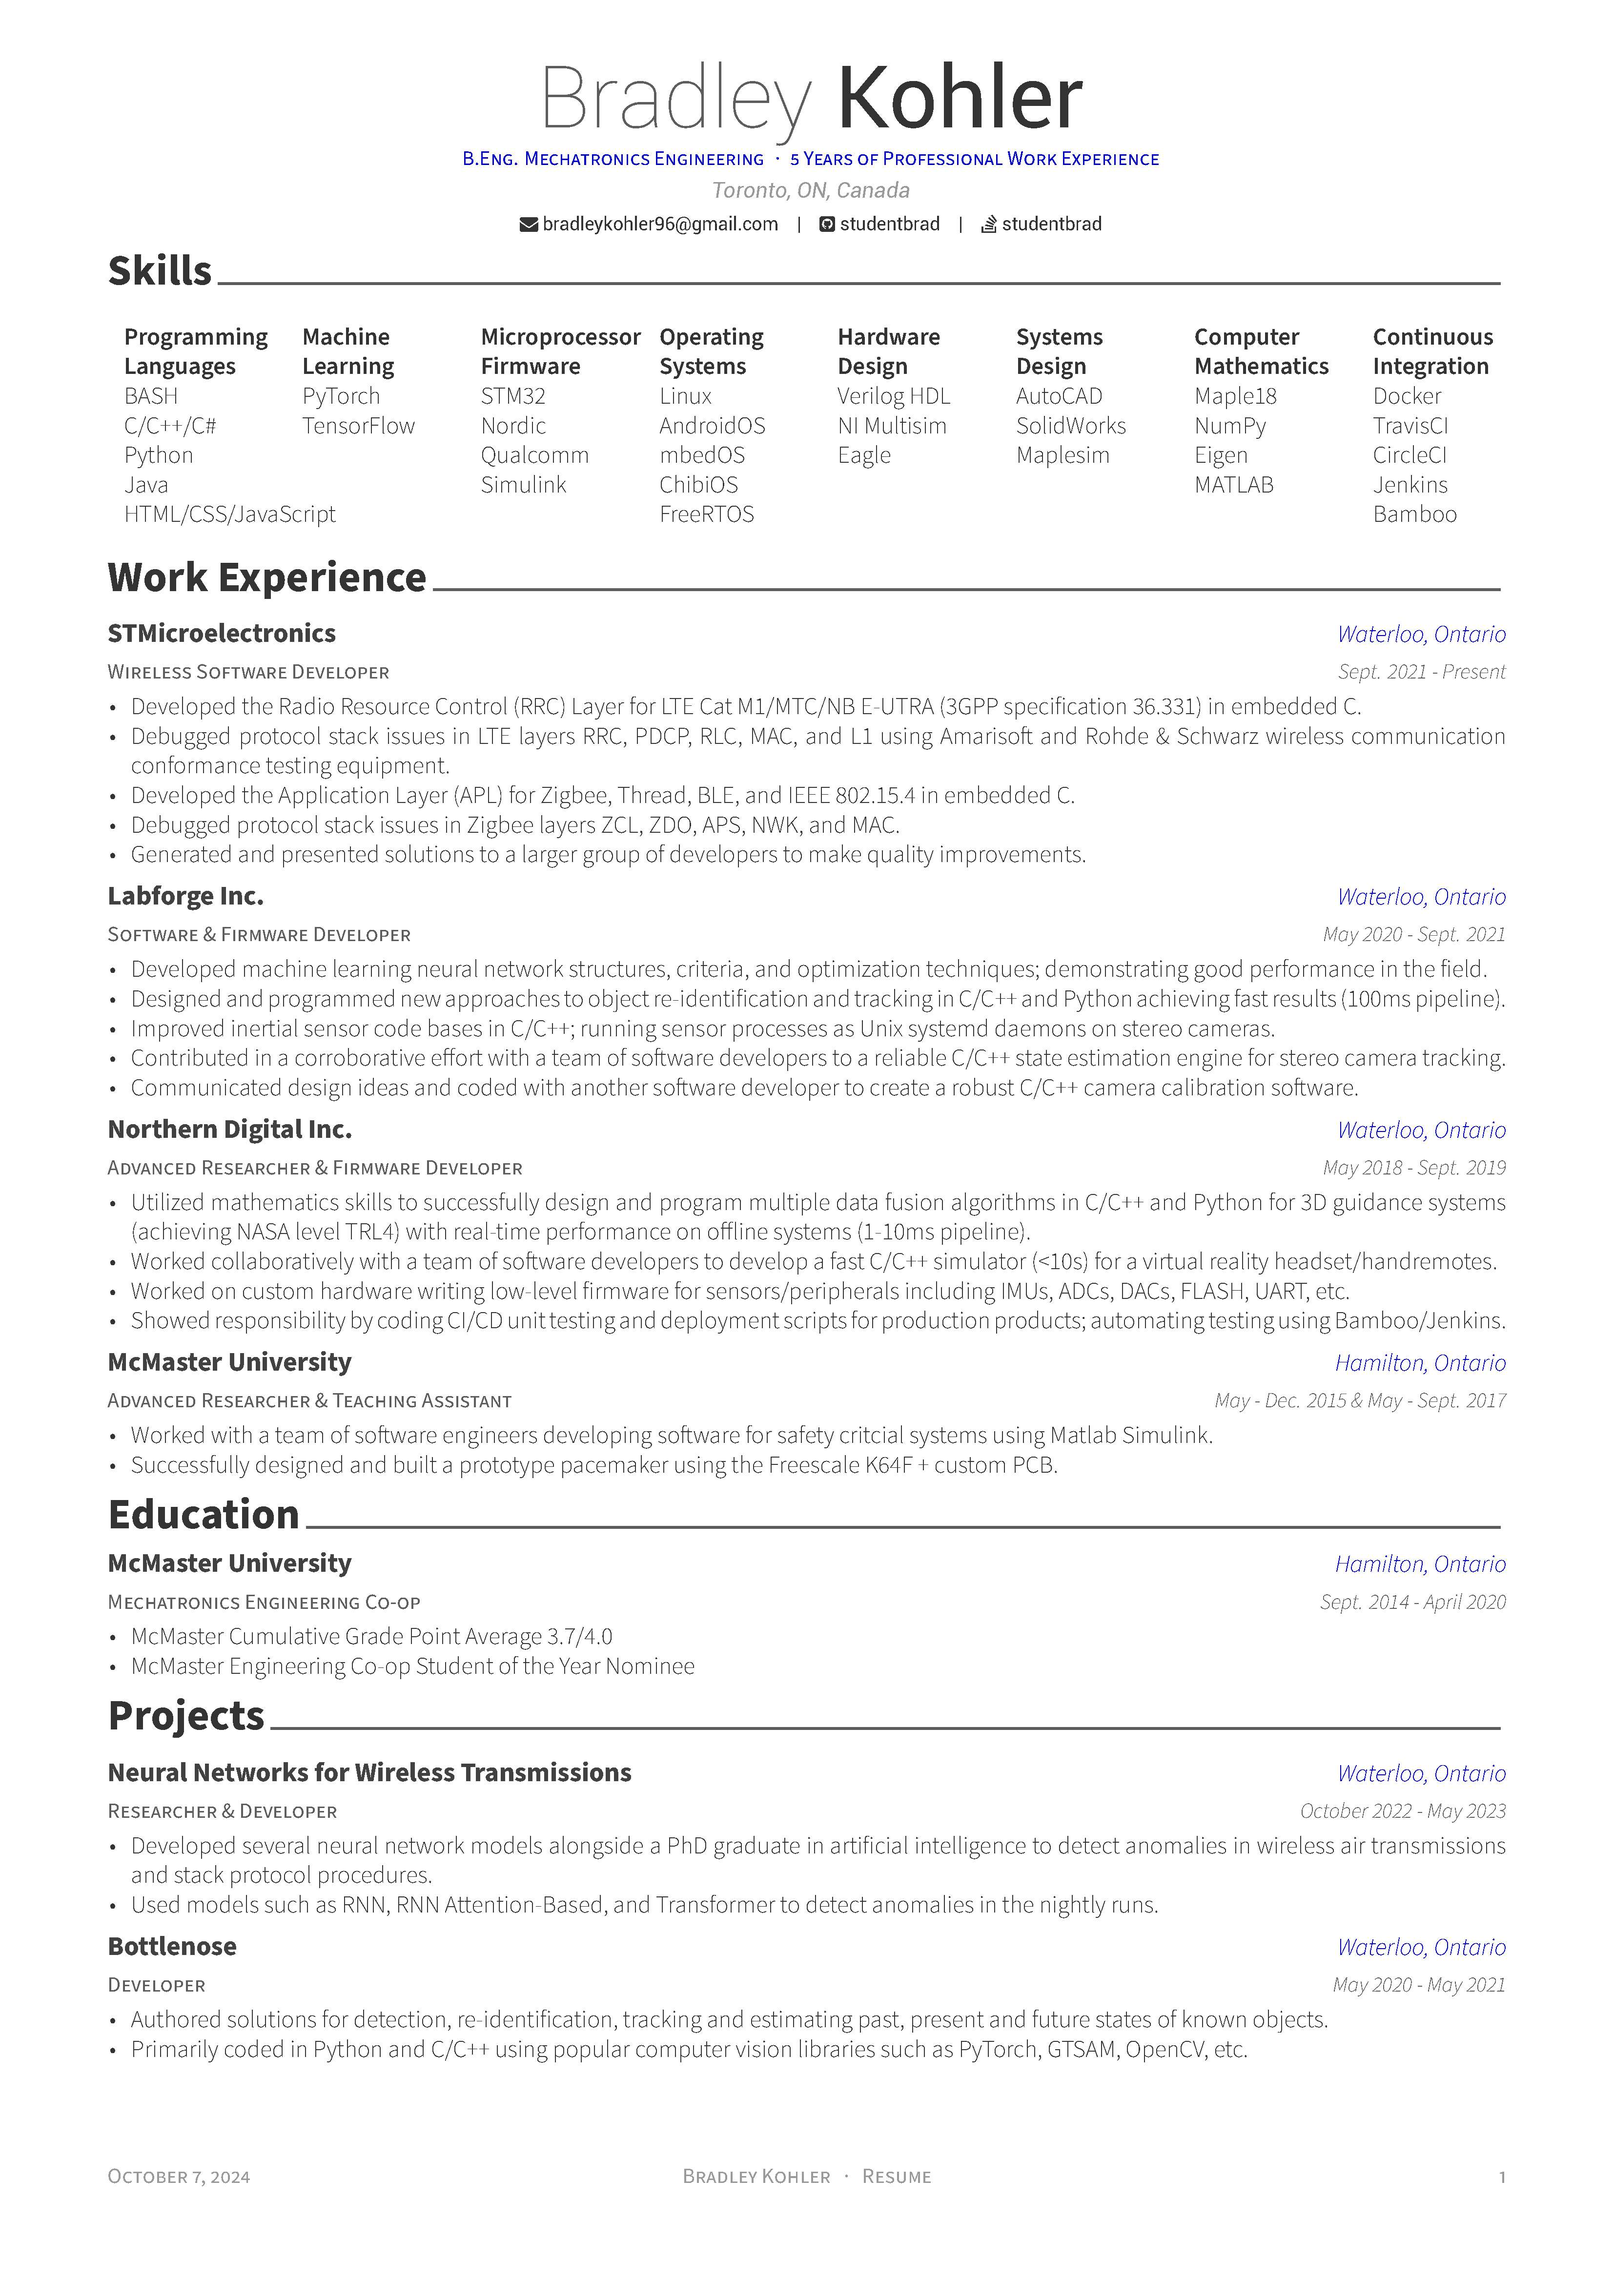
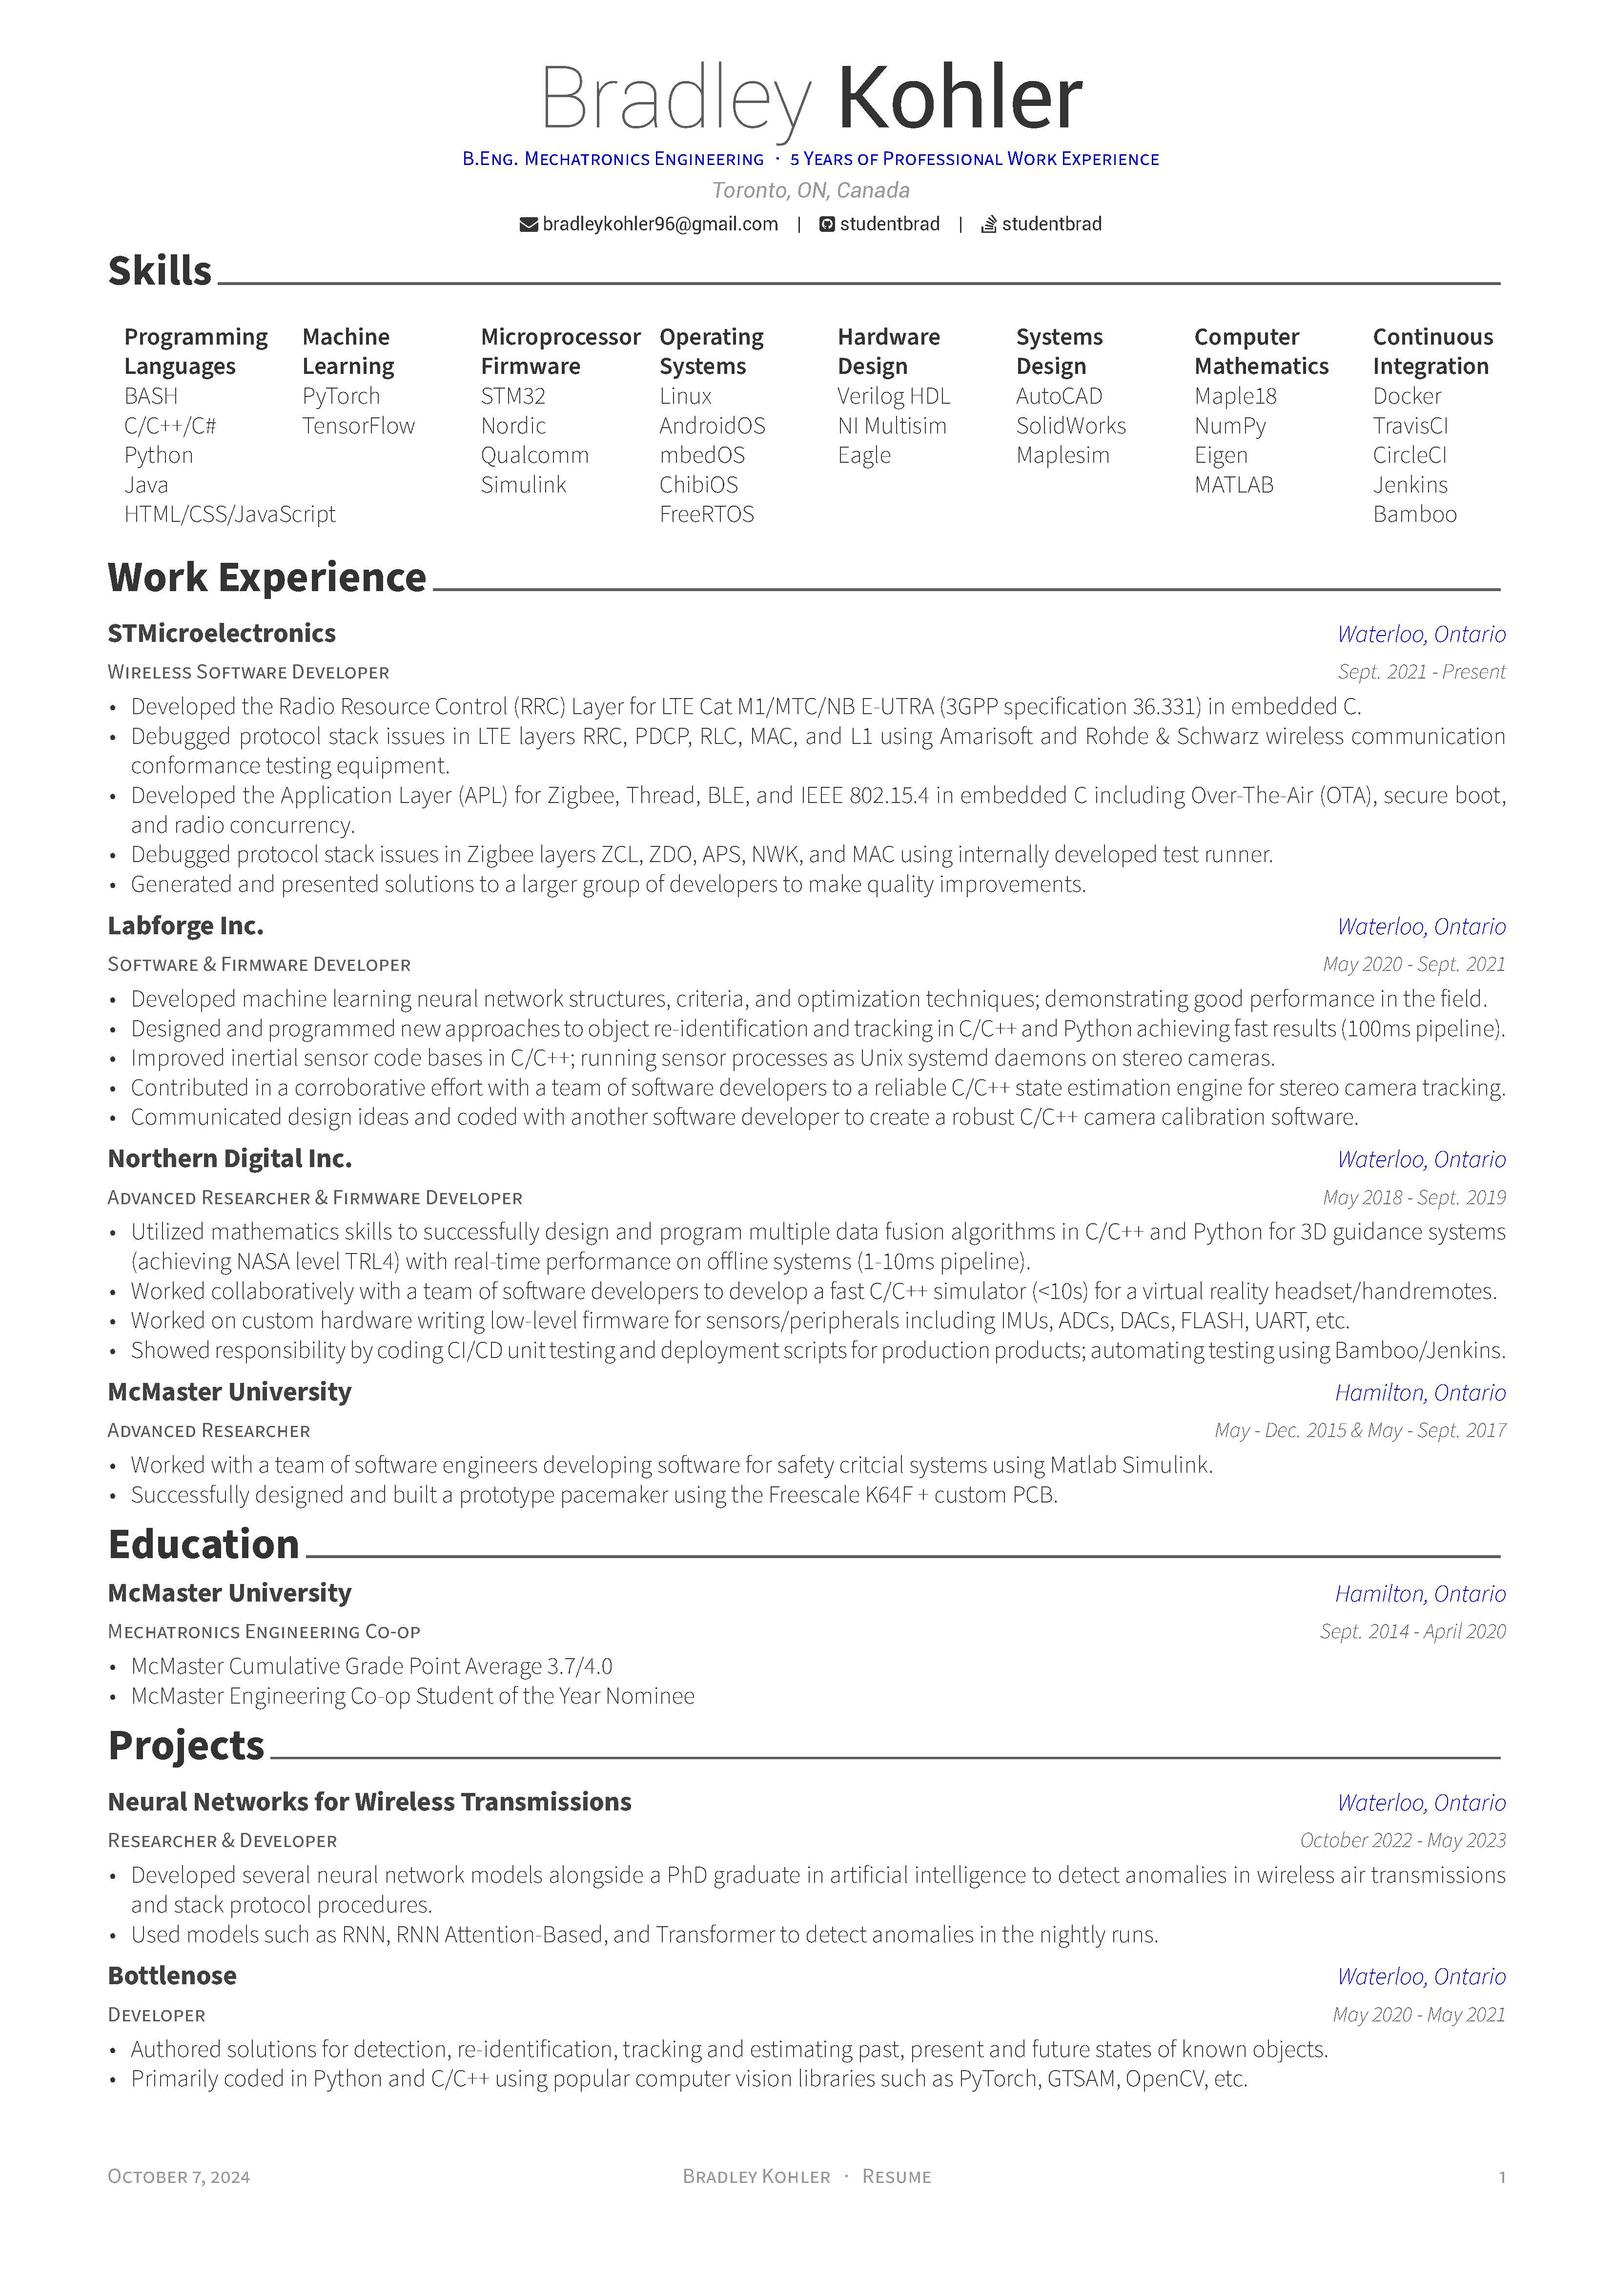
Update STMicroelectronics experience with more details

diff --git a/personal_resume/experience.tex b/personal_resume/experience.tex
@@ -18,8 +18,8 @@
       \begin{cvitems} % Description(s) of tasks/responsibilities
         \item {Developed the Radio Resource Control (RRC) Layer for LTE Cat M1/MTC/NB E-UTRA (3GPP specification 36.331) in embedded C.}
         \item {Debugged protocol stack issues in LTE layers RRC, PDCP, RLC, MAC, and L1 using Amarisoft and Rohde \& Schwarz wireless communication conformance testing equipment.}
-        \item {Developed the Application Layer (APL) for Zigbee, Thread, BLE, and IEEE 802.15.4 in embedded C.}
-		\item {Debugged protocol stack issues in Zigbee layers ZCL, ZDO, APS, NWK, and MAC.}
+        \item {Developed the Application Layer (APL) for Zigbee, Thread, BLE, and IEEE 802.15.4 in embedded C including Over-The-Air (OTA), secure boot, and radio concurrency.}
+		\item {Debugged protocol stack issues in Zigbee layers ZCL, ZDO, APS, NWK, and MAC using internally developed test runner.}
         % \item {Built and maintained hardware/firmware/software test machines for design, verification, and testing.}
         % \item {Developed new tools for decoding and logging air messages during runtime to ease development efforts.}
         \item {Generated and presented solutions to a larger group of developers to make quality improvements.}
